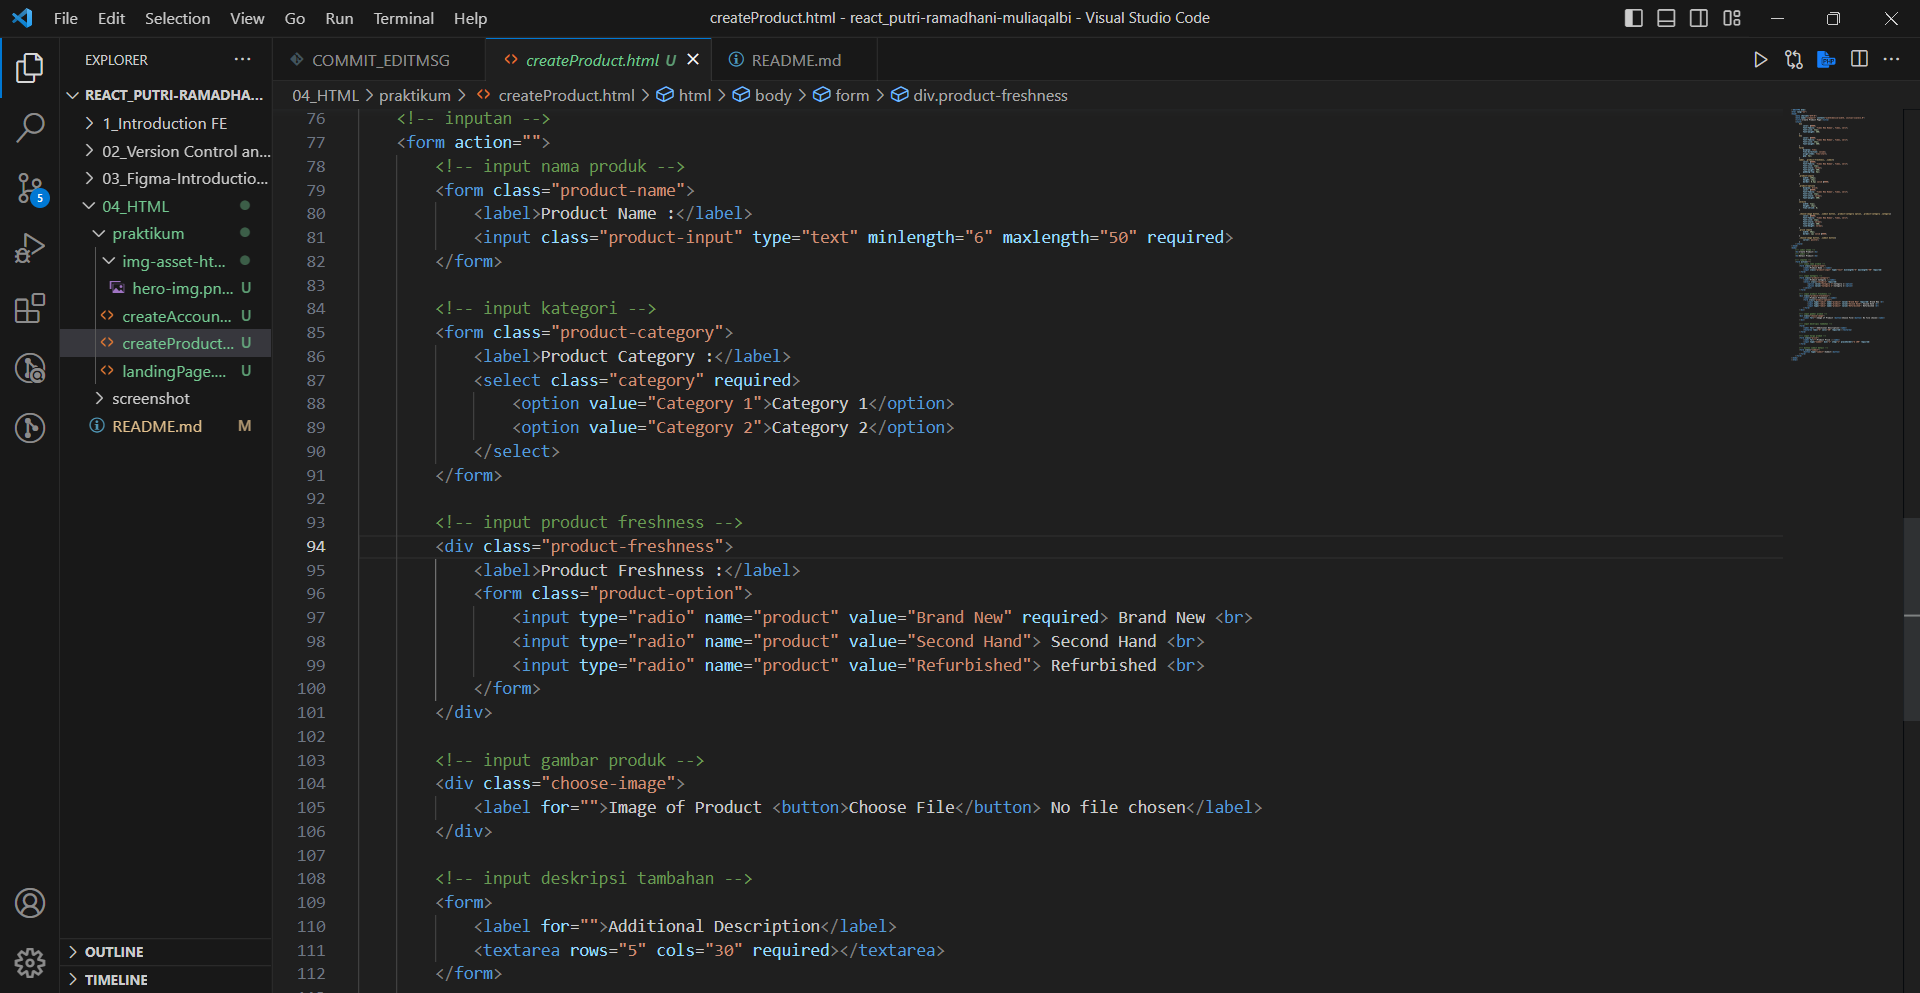
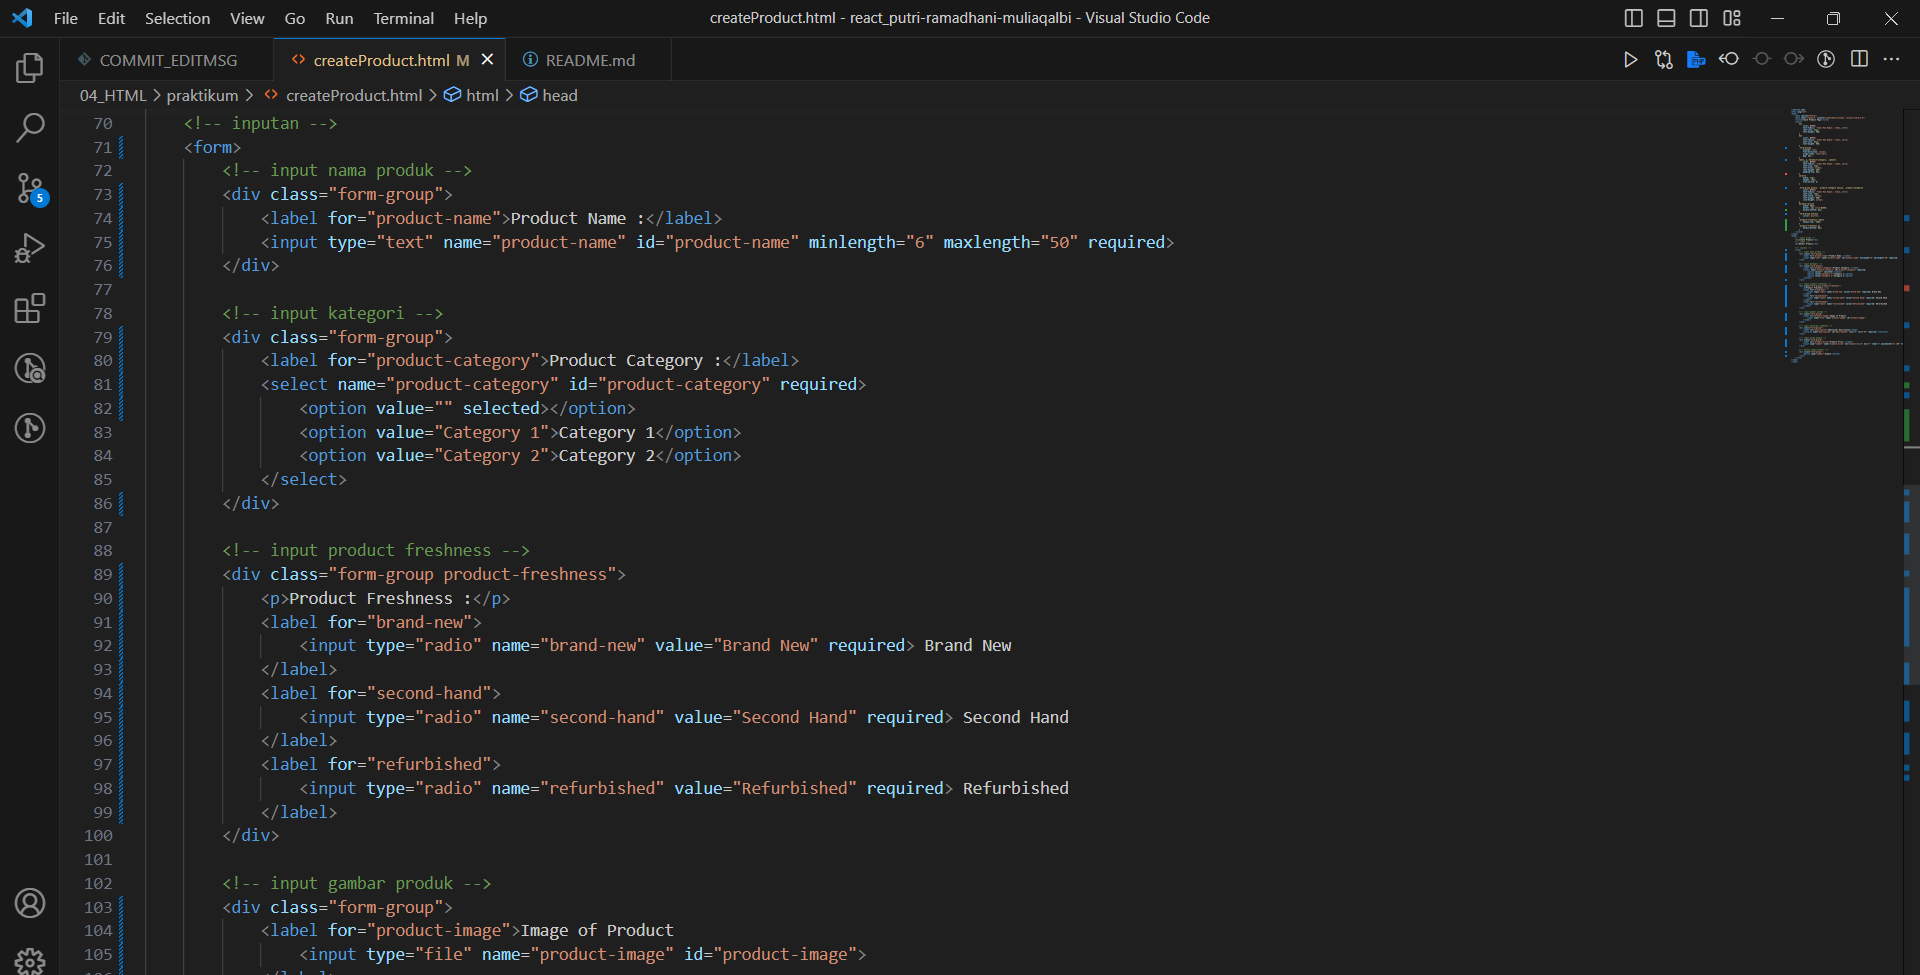
upload revisi tugas HTML

diff --git a/04_HTML/praktikum/createAccount.html b/04_HTML/praktikum/createAccount.html
@@ -20,12 +20,12 @@
             font-weight: 400;
             padding-bottom: 6px;
         }
-        label, .language-option, .gender-opt{
+        label, .language-option, .gender-option{
             color: #000;
             font-size: 12px;
             font-weight: 400;
         }
-        form{
+        .form-group{
             display: flex;
             flex-direction: column;
             align-items: flex-start;
@@ -38,7 +38,7 @@
         .nationality-2{
             font-size : 10px;
         }
-        .submit button{
+        .form-group button{
             color: #000;
             font-family: 'Times New Roman', Times, serif;
             font-size: 12px;
@@ -54,67 +54,87 @@
         <span class="create">Create Account</span> <br>
         <span class="detail">Detail Form</span>
 
-        <form action="">
-            <label for="">First Name :</label>
-            <input type="text" required>
-        </form>
+        <form>
+            <!-- first name -->
+            <div class="form-group">
+                <label for="first-name">First Name :</label>
+                <input type="text" name="first-name" id="first-name" required>
+            </div>
 
-        <form action="">
-            <label for="">Last Name :</label>
-            <input type="text" required>
-        </form>
+            <!-- last name -->
+            <div class="form-group">
+                <label for="last-name">Last Name :</label>
+                <input type="text" name="last-name" id="last-name" required>
+            </div>
 
-        <form action="">
-            <label for="">Username :</label>
-            <input type="text" required>
-        </form>
+            <!-- username -->
+            <div class="form-group">
+                <label for="username">Username :</label>
+                <input type="text" name="username" id="username" required>
+            </div>
 
-        <form action="">
-            <label for="">Email :</label>
-            <input type="email" required>
-        </form>
+            <!-- email -->
+            <div class="form-group">
+                <label for="email">Email :</label>
+                <input type="email" name="email" id="email" required>
+            </div>
 
-        <div class="gender-option">
-            <label>Gender :</label>
-            <form class="gender-opt">
-                <input type="radio" name="gender" value="Male" required> Male <br>
-                <input type="radio" name="gender" value="Female"> Female <br>
-                <input type="radio" name="gender" value="Other"> Other <br>
-            </form>            
-        </div>
+            <!-- gender -->
+            <div class="form-group">
+                <label for="gender">Gender :</label>
+                <label for="male">
+                    <input type="radio" name="male" value="Male" required> Male
+                </label>
+                <label for="female">
+                    <input type="radio" name="female" value="Female" required> Female
+                </label>
+                <label for="other">
+                    <input type="radio" name="other" value="Other" required> Other
+                </label>
+            </div>
 
-        <form action="">
-            <label for="">Address :</label>
-            <input type="text" required>
-        </form>
+            <!-- address -->
+            <div class="form-group">
+                <label for="address">Address :</label>
+                <input type="text" name="address" id="address" required>
+            </div>
 
-        <form action="">
-            <label for="">Address 2 :</label>
-            <input type="text" required>
-        </form>
+            <!-- address 2 -->
+            <div class="form-group">
+                <label for="address-2">Address 2 :</label>
+                <input type="text" name="address-2" id="address-2" required>
+            </div>
 
+            <!-- nationality -->
+            <div class="form-group">
+                <label for="nationality">Nationality :</label>
+                <label class="nationality-2">Nationality</label>
+                <select name="nationality-2" id="nationality-2" required>
+                    <option value="" selected></option>
+                    <option value="Indonesian">Indonesian</option>
+                    <option value="American">American</option>
+                    <option value="American">Australian</option>
+                </select>
+            </div>
 
-        <form class="nationality">
-            <label>Nationality :</label>
-            <label class="nationality-2">Nationality</label>
-            <select class="category" required>
-                <option value="Indonesian">Indonesian</option>
-                <option value="American">American</option>
-                <option value="American">Australian</option>
-            </select>
-        </form>
+            <!-- language -->
+            <div class="form-group">
+                <label for="language">Language Spoken :</label>
+                <label for="bahasa-indonesia">
+                    <input type="checkbox" name="bahasa-indonesia" value="Bahasa Indonesia" required> Bahasa Indonesia
+                </label>
+                <label for="english">
+                    <input type="checkbox" name="english" value="English" required> English
+                </label>
+                <label for="other">
+                    <input type="checkbox" name="other" value="Other" required> Other
+                </label>
+            </div>
 
-        <div class="language-spoken">
-            <label>Language Spoken :</label>
-            <form class="language-option">
-                <input type="checkbox" name="gender" value="Bahasa Indonesia" required> Bahasa Indonesia <br>
-                <input type="checkbox" name="gender" value="English"> English <br>
-                <input type="checkbox" name="gender" value="Other"> Other <br>
-            </form>            
-        </div>
-
-        <form class="submit">
-            <button type="submit">Create Account</button>
+            <!-- submit button -->
+            <div class="form-group">
+                <button type="submit">Create Account</button>
+            </div>
         </form>
     </div>
 </body>

diff --git a/04_HTML/praktikum/createProduct.html b/04_HTML/praktikum/createProduct.html
@@ -17,13 +17,13 @@
             font-size: 24px;
             font-weight: 400;
         }
-        form{
+        .form-group{
             display: flex;
             flex-direction: column;
             align-items: flex-start;
             gap: 4px;
         }
-        label, .product-freshness, .submit{
+        label, p, #product-category, .submit{
             color: #000;
             font-family: 'Times New Roman', Times, serif;
             font-size: 12px;
@@ -31,26 +31,13 @@
             font-weight: 400;
             padding-top: 6px;
         }
-        .product-input{
-            width: 159px;
-            height: 14px;
-            border: 0.5px solid #000;
-        }
-        .product-option{
-            display: block;
-            color: #000;
-            font-family: 'Times New Roman', Times, serif;
-            font-size: 12px;
-            font-style: normal;
-            font-weight: 400;
-        }
         select{
             width: 71px;
             height: 15px;
             flex-shrink: 0;
         }
 
-        .choose-image button, .submit button, .product-category option, .product-category .category{
+        .form-group button, .product-category option, .product-category{
             color: #000;
             font-family: 'Times New Roman', Times, serif;
             font-size: 12px;
@@ -58,12 +45,19 @@
             font-weight: 400;
             line-height: normal;
         }
-        .price input{
+        #product-price{
             width: 50px;
             border: 1px solid #000;
+            margin-bottom: 6px;
         }
-        .choose-image button, .submit button{
+        .form-group button{
             cursor: pointer;
+        }
+        .product-freshness label{
+            margin-top: -10px;
+        }
+        .product-freshness p{
+            margin-bottom: 0px;
         }
     </style>
 </head>
@@ -74,53 +68,60 @@
     <h2>Detail Product</h2>
 
     <!-- inputan -->
-    <form action="">
+    <form>
         <!-- input nama produk -->
-        <form class="product-name">
-            <label>Product Name :</label>
-            <input class="product-input" type="text" minlength="6" maxlength="50" required>
-        </form>
+        <div class="form-group">
+            <label for="product-name">Product Name :</label>
+            <input type="text" name="product-name" id="product-name" minlength="6" maxlength="50" required>
+        </div>
     
         <!-- input kategori -->
-        <form class="product-category">
-            <label>Product Category :</label>
-            <select class="category" required>
+        <div class="form-group">
+            <label for="product-category">Product Category :</label>
+            <select name="product-category" id="product-category" required>
+                <option value="" selected></option>
                 <option value="Category 1">Category 1</option>
                 <option value="Category 2">Category 2</option>
             </select>
-        </form>
+        </div>
     
         <!-- input product freshness -->
-        <div class="product-freshness">
-            <label>Product Freshness :</label>
-            <form class="product-option">
-                <input type="radio" name="product" value="Brand New" required> Brand New <br>
-                <input type="radio" name="product" value="Second Hand"> Second Hand <br>
-                <input type="radio" name="product" value="Refurbished"> Refurbished <br>
-            </form>            
+        <div class="form-group product-freshness">
+            <p>Product Freshness :</p>
+            <label for="brand-new">
+                <input type="radio" name="brand-new" value="Brand New" required> Brand New
+            </label>
+            <label for="second-hand">
+                <input type="radio" name="second-hand" value="Second Hand" required> Second Hand
+            </label>
+            <label for="refurbished">
+                <input type="radio" name="refurbished" value="Refurbished" required> Refurbished
+            </label>            
         </div>
         
         <!-- input gambar produk -->
-        <div class="choose-image">
-            <label for="">Image of Product <button>Choose File</button> No file chosen</label>
+        <div class="form-group">
+            <label for="product-image">Image of Product 
+                <input type="file" name="product-image" id="product-image">
+            </label>
         </div>
     
         <!-- input deskripsi tambahan -->
-        <form>
-            <label for="">Additional Description</label>
-            <textarea rows="5" cols="30" required></textarea>
-        </form>
+        <div class="form-group">
+            <label for="description">Additional Description</label>
+            <textarea name="description" id="description" rows="5" cols="30" required></textarea>
+        </div>
     
         <!-- input harga produk -->
-        <form class="price">
-            <label for="">Product Price :</label>
-            <input type="number" min="1" step="1" placeholder="$ 100" required>
-        </form>
+        <div class="form-group">
+            <label for="product-price">Product Price :</label>
+            <input type="number" name="product-price" id="product-price" min="1" step="1" placeholder="$ 100" required>
+        </div>
 
         <!-- button submit detail -->
-        <form class="submit">
+        <div class="form-group">
             <button type="submit">Submit</button>
-        </form>
+        </div>
     </form>
 </body>
 </html>

diff --git a/04_HTML/praktikum/landingPage.html b/04_HTML/praktikum/landingPage.html
@@ -175,9 +175,9 @@
             <h1>Join Our Newsletter</h1>
 
             <!-- input data -->
-            <form action="">
-                <label for="">Tamen quem nulla quae legam multos aute sint culpa legam noster magna</label>
-                <input type="text" required>
+            <form>
+                <label for="join">Tamen quem nulla quae legam multos aute sint culpa legam noster magna</label>
+                <input type="text" name="join" id="join" required>
             </form>
 
             <!-- button submit -->
